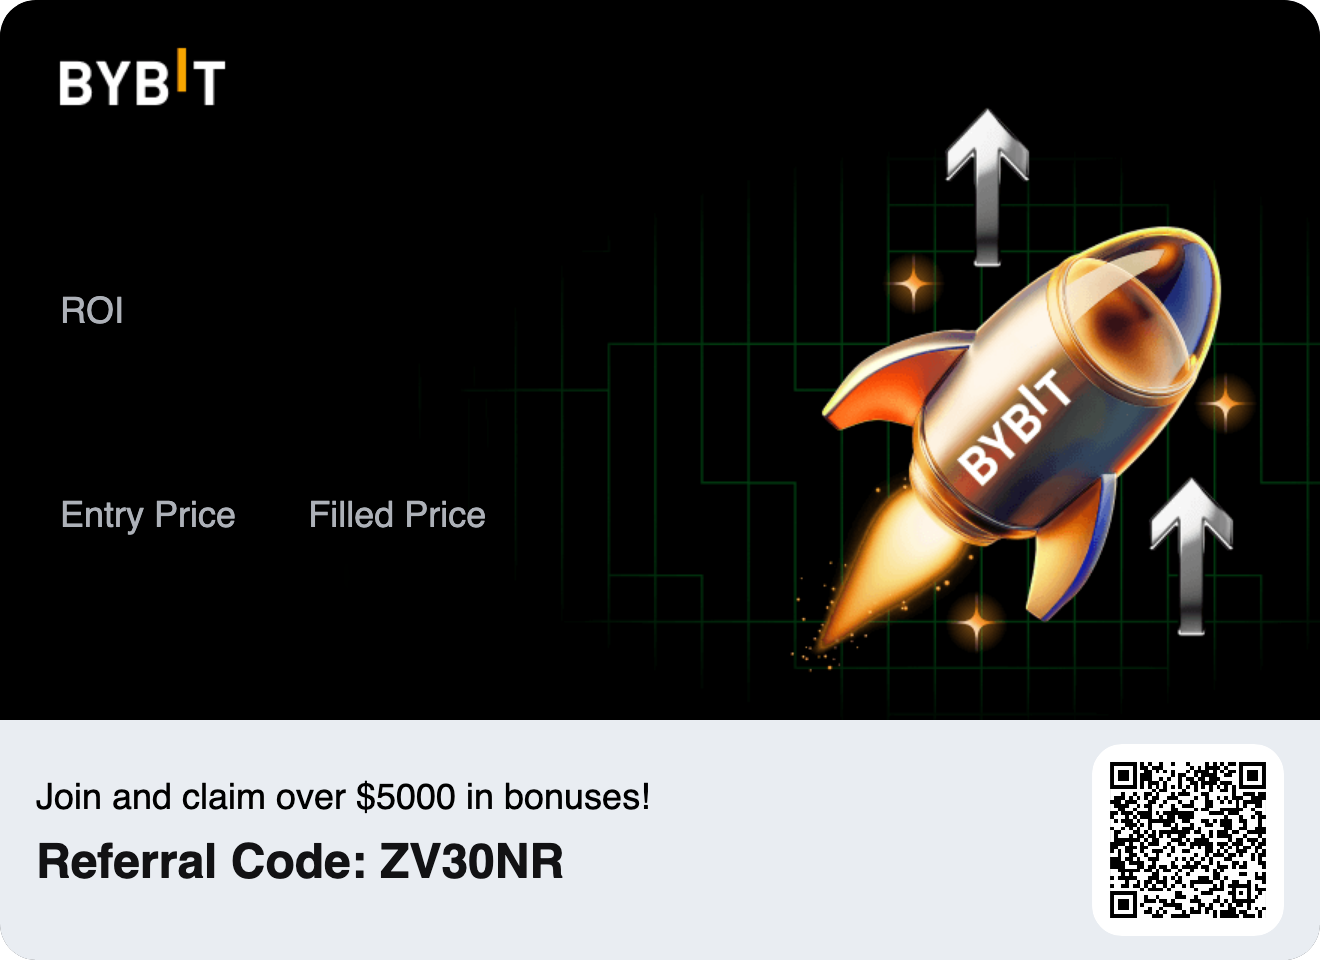
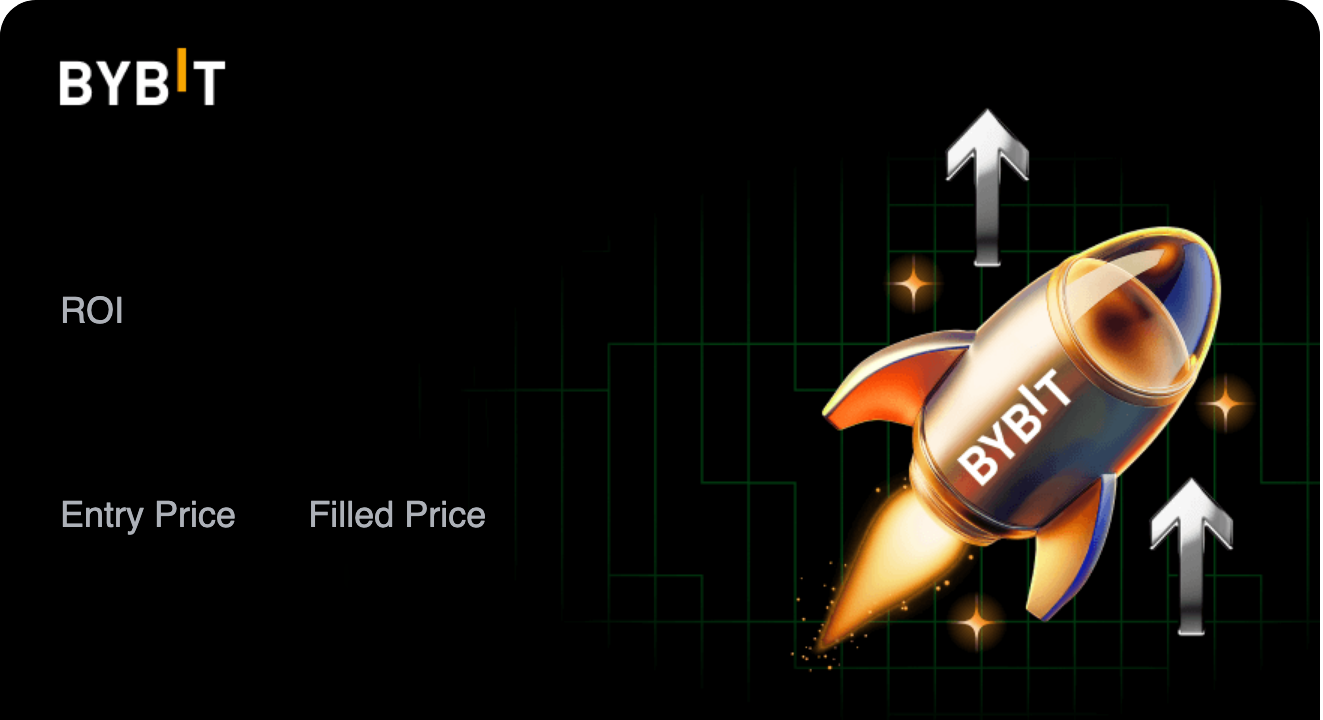
Crop Bybit PnL share templates to drop the white QR footer.
Keep BingX cards unchanged and shrink the Bybit preview to the new aspect.

diff --git a/css/trade-pnl-share-modal.css b/css/trade-pnl-share-modal.css
@@ -25,7 +25,6 @@ border:1px solid #2a3140;
 box-shadow:0 18px 48px rgba(0,0,0,.45);
 }
 
-/* Высота превью = портретная карточка Позиций @ 360px ширины (960×1323). */
 .trade-pnl-share-dialog--diary{
 width:min(92vw,720px);
 }
@@ -88,6 +87,22 @@ max-width:360px;
 max-width:min(
 684px,
 calc(92vw - 36px)
+);
+}
+
+/* Bybit позиции: 960×1080 @ 360px → 405px. */
+.trade-pnl-share-dialog--bybit .trade-pnl-share-preview-wrap{
+--pnl-share-preview-h:min(
+405px,
+calc(92vh - 120px)
+);
+}
+
+/* Bybit дневник: 1323×720 @ 684px → 372px. */
+.trade-pnl-share-dialog--bybit.trade-pnl-share-dialog--diary .trade-pnl-share-preview-wrap{
+--pnl-share-preview-h:min(
+372px,
+calc(92vh - 120px)
 );
 }
 

diff --git a/js/trade/bybit/pnl-share-modal.js b/js/trade/bybit/pnl-share-modal.js
@@ -572,7 +572,7 @@ el.className =
 "trade-pnl-share-overlay";
 el.innerHTML =
 `
-<div class="trade-pnl-share-dialog" role="dialog" aria-modal="true" aria-label="Поделиться PnL">
+<div class="trade-pnl-share-dialog trade-pnl-share-dialog--bybit" role="dialog" aria-modal="true" aria-label="Поделиться PnL">
 <button type="button" class="trade-pnl-share-close" data-action="close" aria-label="Закрыть">×</button>
 <div class="trade-pnl-share-preview-wrap">
 <img class="trade-pnl-share-preview" data-role="preview" alt="Бейдж Поделиться PnL">

diff --git a/scripts/generate-bybit-pnl-card.py b/scripts/generate-bybit-pnl-card.py
@@ -1,6 +1,6 @@
 #!/usr/bin/env python3
 """
-Generate Bybit-style PnL share cards on empty templates (960×1323).
+Generate Bybit-style PnL share cards on empty templates (960×1080).
 
 Rules:
   - ROI >= 0  → green grid template (profit)
@@ -10,7 +10,7 @@ Rules:
   - Badge X   → ticker_text_right + BADGE_GAP (fixed offset from reference)
   - ROI color → green if positive, red if negative
 
-Layout calibrated against assets/Share (1).png @ 960×1323.
+Layout calibrated against assets/Share (1).png (Y from top; footer cropped).
 """
 from __future__ import annotations
 
@@ -26,9 +26,9 @@ TEMPLATE_POS = ROOT / "assets/bybit-pnl-template-positive.png"
 TEMPLATE_NEG = ROOT / "assets/bybit-pnl-template-negative.png"
 REFERENCE = ROOT / "assets/Share (1).png"
 
-REF_W, REF_H = 960, 1323
+REF_W, REF_H = 960, 1080
 
-# Anchors from Share (1).png @ 960×1323 — bottom-left corner of text bbox
+# Anchors from Share (1).png — bottom-left of text bbox (Y unchanged after footer crop)
 LAYOUT = {
     "ticker_font": 60.5,
     "ticker_tracking": -4,  # Photoshop tracking, 1/1000 em

diff --git a/scripts/generate-bybit-pnl-diary-card.py b/scripts/generate-bybit-pnl-diary-card.py
@@ -2,7 +2,7 @@
 """
 Generate Bybit-style PnL share cards for closed trades (Дневник).
 
-Landscape templates @ design ref 1323×960 (actual PNG may differ — scaled).
+Landscape templates @ design ref 1323×720 (footer cropped; Y from top unchanged).
 """
 from __future__ import annotations
 
@@ -17,9 +17,9 @@ ROOT = Path(__file__).resolve().parents[1]
 TEMPLATE_POS = ROOT / "assets/bybit-pnl-diary-template-positive.png"
 TEMPLATE_NEG = ROOT / "assets/bybit-pnl-diary-template-negative.png"
 
-REF_W, REF_H = 1323, 960
+REF_W, REF_H = 1323, 720
 
-# Calibrated from assets/positive example.png @ 1323×960.
+# Calibrated from assets/positive example.png (Y from top; footer cropped).
 LAYOUT = {
     "ticker_font": 60.5,
     "ticker_tracking": -4,

diff --git a/scripts/compose-bybit-pnl-card.py b/scripts/compose-bybit-pnl-card.py
@@ -1,7 +1,7 @@
 #!/usr/bin/env python3
 """
 Compose Bybit PnL card on empty template by transplanting text layers
-from the filled reference (exact Bybit typography). 960×1323.
+from the filled reference (exact Bybit typography). 960×1080.
 """
 from pathlib import Path
 
